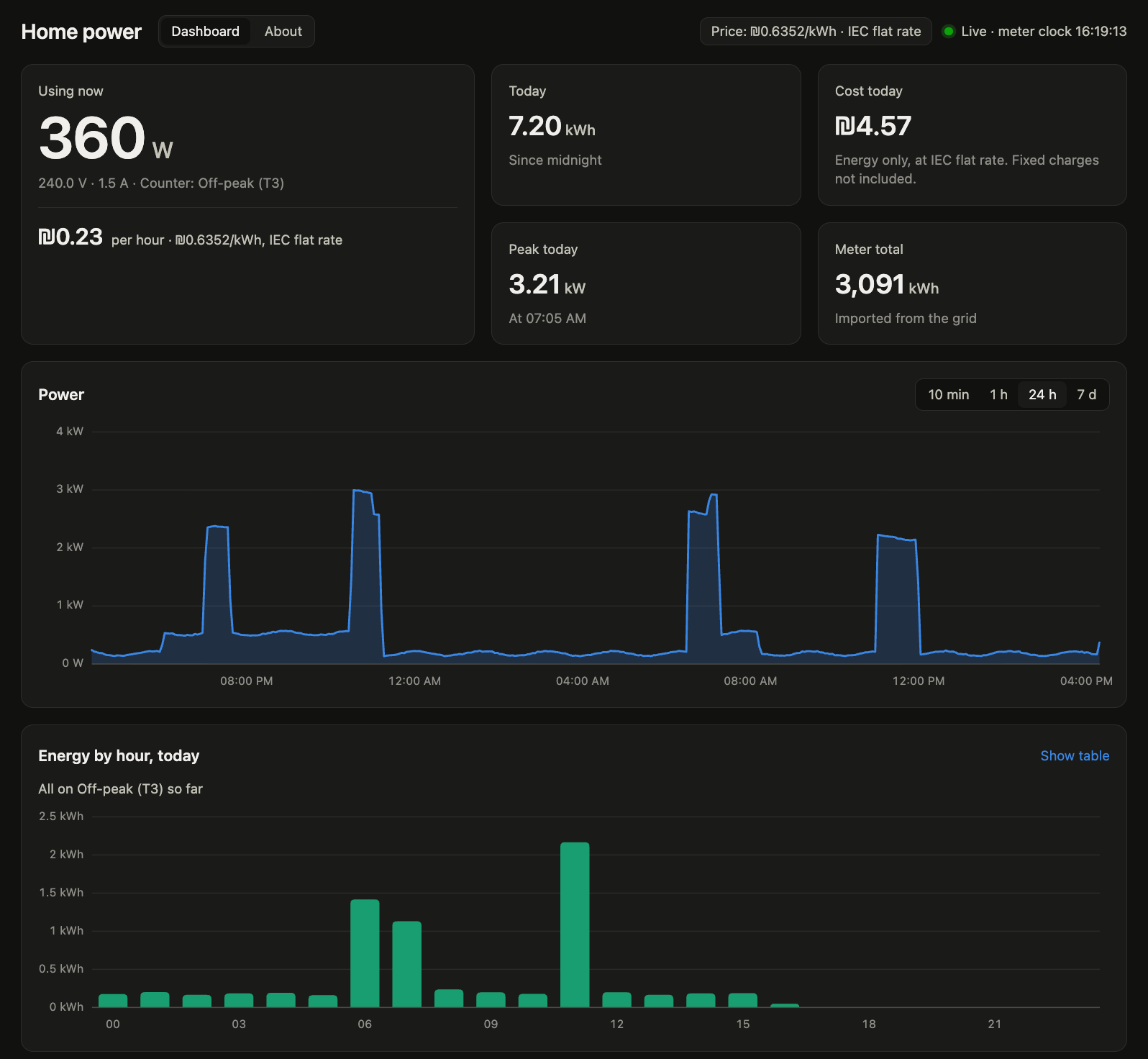
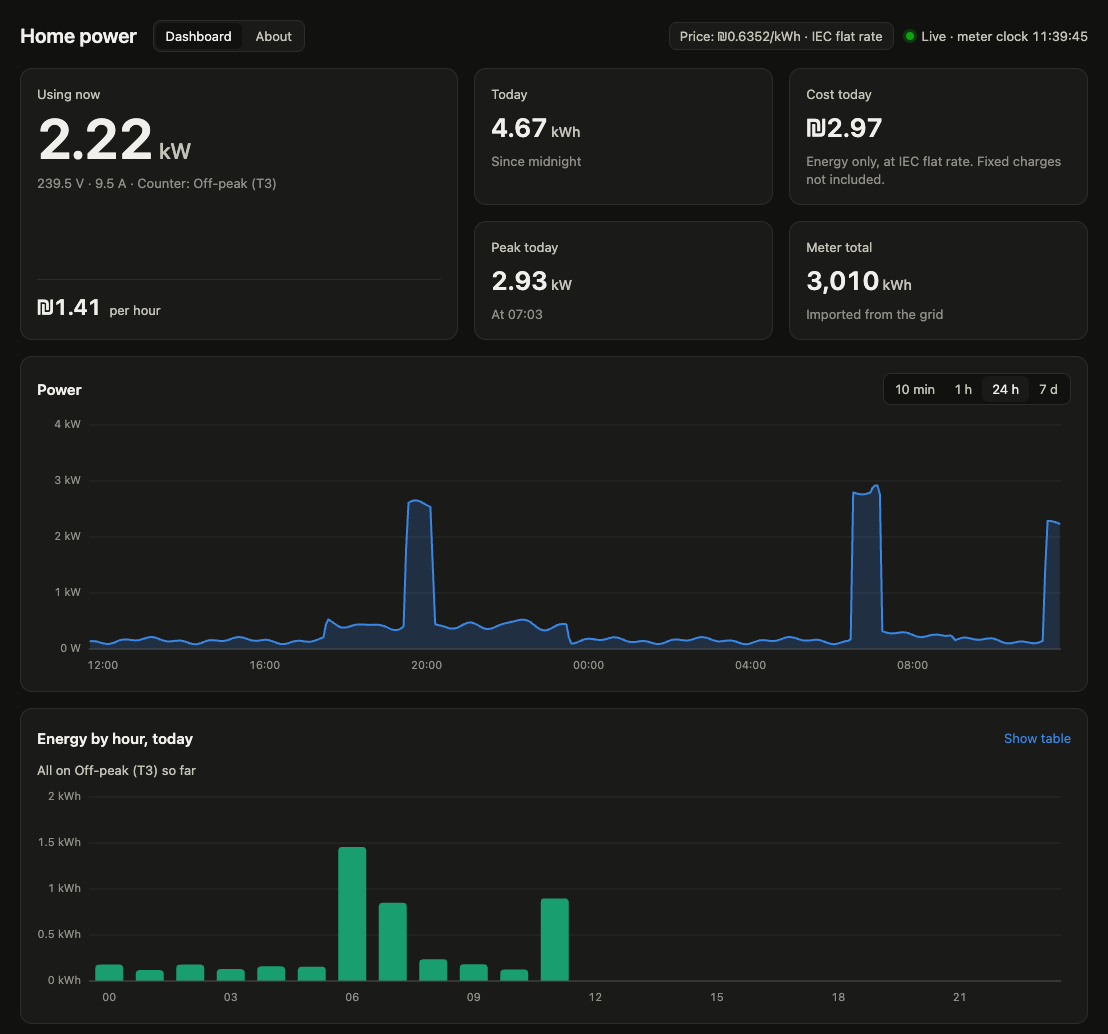
README: retake screenshots and demo GIF for the new design
Taken from the current dashboard on a throwaway server fed by a fake
meter on a pseudo-terminal and eight days of made-up readings, so no
real usage is published. The GIF follows the same story as before
(boiler switching on live, chart ranges with hover, supplier plans,
meter details) and drops from 2.7 MB to 0.4 MB.

diff --git a/README.md b/README.md
@@ -10,7 +10,7 @@ A local, live electricity dashboard for Israel Electric Corporation (IEC) **Kaif
 <sub>Screenshot with demo data.</sub>
 
 <details>
-<summary><b>See it running</b> (animated, 2.7 MB)</summary>
+<summary><b>See it running</b> (animated, 0.4 MB)</summary>
 
 ![Animated demo: a boiler switches on live, the power chart switches between 1 hour, 24 hours and 7 days with hover details, the supplier plan comparison, then the meter details page with the raw telegram](docs/dashboard-demo.gif)
 
